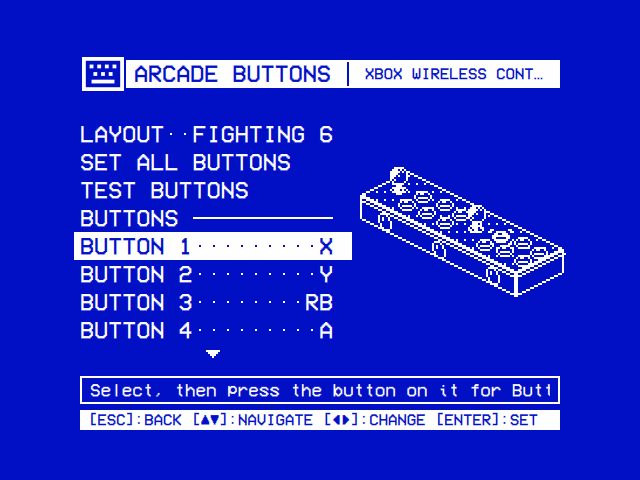
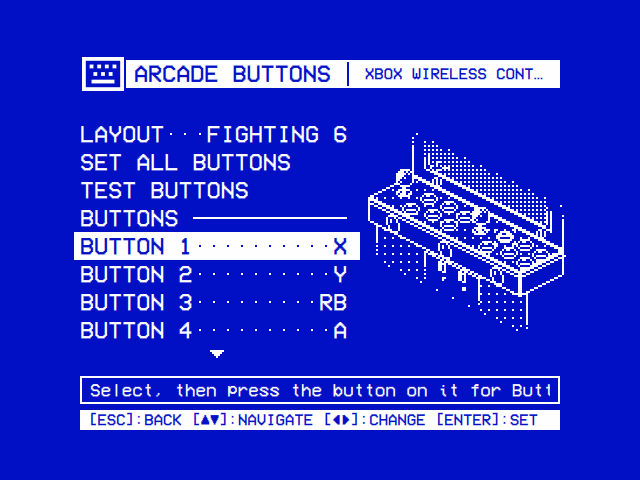
feat: Arcade Buttons shows the cabinet above and below its panel
The Arcade Buttons drawing showed the control panel alone. It now shows
a little of the cabinet round it as well, fading out above and below:
behind the panel rises the foot of the monitor, its bezel with two
speakers and the screen's lines, and under the panel the cabinet's front
goes down past the top of the coin door and its two coin entries. The
panel keeps its layout and what is lit on it; the drawing is 99 cells
square.

The two Arcade Buttons screenshots are retaken. Controls, ARCHITECTURE
and the drawing's comments describe the cabinet round the panel, and
describe it as a two-player cabinet rather than one particular model.

Changed region(s): [[0.4688, 0.2812, 0.875, 0.7188], [0.2812, 0.25, 0.5625, 0.3125], [0.3125, 0.7188, 0.3438, 0.75]]

diff --git a/views/Components/ArcadePanelArt.js b/views/Components/ArcadePanelArt.js
@@ -1,13 +1,16 @@
 .pragma library
 
 // The Arcade Buttons page's drawing (ArcadePanel.qml): a two-player arcade
-// cabinet's control panel, after a Stella International cabinet's, in
-// two-colour isometric pixel art. On its top each player has a ball-top
-// stick and six buttons in two rows of three that follow the fingers (the
-// first column nearer the player, the second the farthest), player 1 on the
-// left and player 2 on the right; on its front, below a chrome strip, three
-// round buttons: 1P START, COIN and 2P START. One player's side can be lit:
-// a button, COIN or that player's START.
+// cabinet's control panel, with a little of the cabinet above and below it,
+// in two-colour isometric pixel art. On the panel's top each player has a
+// ball-top stick and six buttons in two rows of three that follow the
+// fingers (the first column nearer the player, the second the farthest),
+// player 1 on the left and player 2 on the right; on its front, below a
+// chrome strip, three round buttons: 1P START, COIN and 2P START. Behind it
+// rises the foot of the monitor, its bezel with two speakers and the
+// screen's lines; under it the cabinet's front goes down past the top of the
+// coin door. The cabinet fades out above and below. One player's side can
+// be lit: a button, COIN or that player's START.
 //
 // draw() lays it out on a grid of cells, one art pixel each: 0 for none
 // (the ground the host draws on shows), 1 for ink, 2 for the ground drawn
@@ -16,15 +19,15 @@
 // (from above) has more of it.
 
 // The grid.
-var width = 103
-var height = 65
+var width = 99
+var height = 99
 
 // Isometric 2:1: along the panel (u, the players' left to right) a cell
 // down for every two right, into it (v, away from the players) a cell up for
-// every two right, z straight up, all in cells. Origin: the top's front left
-// corner.
+// every two right, z straight up, all in cells. Origin: the panel top's
+// front left corner.
 var originX = 0
-var originY = 14
+var originY = 32
 
 function project(u, v, z) {
     return { x: originX + 2 * u + 2 * v, y: originY + u - v - (z || 0) }
@@ -32,20 +35,25 @@ function project(u, v, z) {
 
 // The panel: its length and depth, the height of its front, and how far
 // down the front the chrome strip along its top is.
-var panelLength = 39
-var panelDepth = 12
+var panelLength = 38
+var panelDepth = 11
 var frontHeight = 12
 var strip = 2
+// The cabinet round it, as much as shows: how high above the panel's top,
+// how low under its front, and how far back the front under the panel is.
+var above = 22
+var below = 22
+var recess = 2
 
 // Where things stand on the top (u, v), from the left end of each player's
 // half of it. The buttons' columns follow the fingers: the first a little
 // nearer the player, the second the farthest, the third a little nearer
 // again.
 var playerLength = panelLength / 2
-var stick = { u: 3.6, v: 6.1 }
-var columns = [8.3, 12.8, 17.3]
+var stick = { u: 3.5, v: 5.6 }
+var columns = [8.1, 12.5, 16.9]
 var bend = [-0.9, 0, -0.4]
-var rows = [8.2, 3.9]        // the top row (1 2 3), the bottom (4 5 6)
+var rows = [7.6, 3.5]        // the top row (1 2 3), the bottom (4 5 6)
 // The front's buttons, along it, halfway down from the strip.
 var front = { start1: 0.16, coin: 0.5, start2: 0.84 }
 
@@ -91,6 +99,15 @@ var frontButton = {
           "..#####",
           "...###."]
 }
+// A speaker's grille in the bezel, which faces the players too.
+var speaker = {
+    anchor: { x: 2, y: 2 },
+    lines: [".##..",
+            "#o#o#",
+            "#o#o#",
+            "#o#o#",
+            "..##."]
+}
 
 // The ball: lit from the top left, its shine in a dither that thins away
 // from it.
@@ -134,14 +151,20 @@ function frontAt(name) {
     return project(front[name] * panelLength, 0, -(strip + frontHeight) / 2)
 }
 
+// The cells, and for each of the cabinet's the height it stands at (NaN for
+// the rest), which its fade goes by.
 function Grid(w, h) {
     this.w = w
     this.h = h
     this.cells = new Uint8Array(w * h)
+    this.height = new Float32Array(w * h).fill(NaN)
 }
+// A cell drawn over is no longer the cabinet's.
 Grid.prototype.set = function(x, y, value) {
-    if (x >= 0 && y >= 0 && x < this.w && y < this.h)
+    if (x >= 0 && y >= 0 && x < this.w && y < this.h) {
         this.cells[y * this.w + x] = value
+        this.height[y * this.w + x] = NaN
+    }
 }
 Grid.prototype.get = function(x, y) {
     return x >= 0 && y >= 0 && x < this.w && y < this.h ? this.cells[y * this.w + x] : 0
@@ -165,6 +188,17 @@ Grid.prototype.edge = function(shape) {
         var cx = x + 0.5, cy = y + 0.5
         return !inside(cx - 1, cy) || !inside(cx + 1, cy) || !inside(cx, cy - 1) || !inside(cx, cy + 1) ? 1 : this.get(x, y)
     }.bind(this))
+}
+// The cells of a shape as the cabinet's, at the heights heightAt(x, y)
+// gives, whatever is drawn in them.
+Grid.prototype.tag = function(shape, heightAt) {
+    var box = shape.box
+    for (var y = Math.max(0, Math.floor(box[1])); y <= Math.min(this.h - 1, Math.ceil(box[3])); y++) {
+        for (var x = Math.max(0, Math.floor(box[0])); x <= Math.min(this.w - 1, Math.ceil(box[2])); x++) {
+            if (shape.inside(x + 0.5, y + 0.5))
+                this.height[y * this.w + x] = heightAt(x + 0.5, y + 0.5)
+        }
+    }
 }
 Grid.prototype.line = function(a, b, value) {
     var x0 = Math.round(a.x), y0 = Math.round(a.y), x1 = Math.round(b.x), y1 = Math.round(b.y)
@@ -237,11 +271,24 @@ function ellipse(cx, cy, rx, ry) {
 function corners(z) {
     return [project(0, 0, z), project(panelLength, 0, z), project(panelLength, panelDepth, z), project(0, panelDepth, z)]
 }
+// An upright rectangle across the cabinet, v in from its front, u0 to u1
+// along it and z0 to z1 up it, as a shape; its cells' heights (heightAt).
+function upright(v, u0, u1, z0, z1) {
+    var shape = polygon([project(u0, v, z0), project(u1, v, z0), project(u1, v, z1), project(u0, v, z1)])
+    shape.heightAt = function(x, y) {
+        var u = (x - originX) / 2 - v
+        return originY + u - v - y
+    }
+    return shape
+}
 
 // Two-colour shading: ink on a share of the cells, in an even pattern.
 function ground() { return 2 }
+function ink() { return 1 }
 function half(x, y) { return (x + y) % 2 === 0 ? 1 : 2 }
 function sixteenth(x, y) { return x % 4 === 0 && y % 4 === 0 ? 1 : 2 }
+// A lit screen's lines: every other row, every other cell of it.
+function scanlines(x, y) { return y % 2 === 0 && x % 2 === 0 ? 1 : 2 }
 
 // A stick (a Sanwa JLF with its ball top): the dust washer round the
 // shaft, the shaft, the ball.
@@ -259,6 +306,66 @@ function drawStick(grid, at) {
     grid.sprite(ball, { x: Math.floor(ballDiameter / 2), y: ballDiameter - 1 }, c.x, c.y - shaftHeight + 2)
 }
 
+// What shows of the cabinet behind and under the panel, each face filled
+// and outlined: the monitor's bezel, upright behind the panel, with two
+// speakers and the foot of the screen, its lines and a glint on its glass;
+// and the front under the panel, set back from it, with the top of the coin
+// door, its two coin entries (a bright plate each with the slot in it, the
+// coin return under it).
+function drawCabinet(grid) {
+    var L = panelLength, D = panelDepth, H = frontHeight, R = recess
+    var draw = function(shape, fill) {
+        grid.paint(shape, fill)
+        grid.edge(shape)
+    }
+
+    var bezel = upright(D, 0, L, 0, above)
+    draw(bezel, ground)
+    draw(upright(D, 3, L - 3, 6, above), ground)
+    var glass = polygon([project(5, D, 7), project(L - 5, D, 7), project(L - 4, D, 9.5), project(L - 4, D, above),
+                         project(4, D, above), project(4, D, 9.5)])
+    draw(glass, scanlines)
+    grid.line(project(6, D, 9), project(9, D, 13), 1)
+    grid.line(project(6, D, 12), project(7, D, 14), 1)
+    var speakers = [6, L - 6]
+    for (var i = 0; i < speakers.length; i++) {
+        var c = project(speakers[i], D, 3.5)
+        grid.sprite(speaker.lines, speaker.anchor, c.x, c.y)
+    }
+    grid.tag(bezel, bezel.heightAt)
+
+    var low = upright(R, 0, L, -H - below, -H)
+    draw(low, sixteenth)
+    draw(upright(R, L / 2 - 7, L / 2 + 7, -H - below, -H - 4.5), ground)
+    var entries = [L / 2 - 3.5, L / 2 + 1.5]
+    for (var j = 0; j < entries.length; j++) {
+        var e = entries[j]
+        draw(upright(R, e, e + 2, -H - 11, -H - 6), ink)
+        grid.line(project(e + 1, R, -H - 7), project(e + 1, R, -H - 9.5), 2)
+        var r = project(e + 1, R, -H - 13)
+        var rx = Math.round(r.x), ry = Math.round(r.y)
+        grid.set(rx, ry, 1); grid.set(rx + 1, ry, 1); grid.set(rx, ry + 1, 1); grid.set(rx + 1, ry + 1, 1)
+    }
+    grid.tag(low, low.heightAt)
+}
+
+// The cabinet fades out up the bezel and down the front: the higher (or
+// lower) one of its cells, the likelier it is gone, in an even pattern.
+function fade(grid) {
+    var bayer = [[0, 8, 2, 10], [12, 4, 14, 6], [3, 11, 1, 9], [15, 7, 13, 5]]
+    var from = 12, top = above, to = -frontHeight - 12, bottom = -frontHeight - below
+    for (var y = 0; y < grid.h; y++) {
+        for (var x = 0; x < grid.w; x++) {
+            var z = grid.height[y * grid.w + x]
+            if (isNaN(z))
+                continue
+            var keep = z > from ? (top - z) / (top - from) : z < to ? (z - bottom) / (to - bottom) : 1
+            if (bayer[y % 4][x % 4] >= keep * 16)
+                grid.cells[y * grid.w + x] = 0
+        }
+    }
+}
+
 // lit: the inputs to light, by their names ("1" to "6", "coin", "start"),
 // on player's side: 2 the right, else the left.
 function draw(lit, player) {
@@ -267,8 +374,9 @@ function draw(lit, player) {
         on[lit[i]] = true
     var side = player === 2 ? 2 : 1
     var grid = new Grid(width, height)
+    drawCabinet(grid)
 
-    // The front and the right end, in shade, the strip along the front's
+    // The panel's front and right end, in shade, the strip along the front's
     // top and round the end; the top over them.
     var top = corners(0), foot = corners(-frontHeight), band = corners(-strip)
     for (var s = 0; s < 2; s++) {
@@ -313,6 +421,7 @@ function draw(lit, player) {
     things.sort(function(a, b) { return (a.at.u - a.at.v) - (b.at.u - b.at.v) })
     for (var t = 0; t < things.length; t++)
         things[t].draw()
+    fade(grid)
 
     // The focus frame round each lit one.
     var gap = 1

diff --git a/views/Components/ArcadePanel.qml b/views/Components/ArcadePanel.qml
@@ -1,12 +1,12 @@
 import QtQuick
 import "ArcadePanelArt.js" as Art
 
-// A two-player cabinet's control panel after a Stella International
-// cabinet's, drawn in the theme's two colours: each player's ball-top stick
-// and six buttons in two rows of three, and 1P START, COIN and 2P START on
-// its front (ArcadePanelArt.js draws it). lit: the inputs shown lit, "1" to
-// "6", "coin" and "start" (Arcade Buttons' names), on player's side: 2 the
-// right, else the left. Button 7 and 8 aren't on it.
+// A two-player arcade cabinet's control panel, with a little of the cabinet
+// above and below it, drawn in the theme's two colours: each player's
+// ball-top stick and six buttons in two rows of three, and 1P START, COIN
+// and 2P START on its front (ArcadePanelArt.js draws it). lit: the inputs
+// shown lit, "1" to "6", "coin" and "start" (Arcade Buttons' names), on
+// player's side: 2 the right, else the left. Button 7 and 8 aren't on it.
 //
 // Each of the drawing's cells is cell screen pixels square, so it keeps its
 // pixels whole: root.px, a 240-line picture's pixel, by default.

diff --git a/docs/wiki/Controls.md b/docs/wiki/Controls.md
@@ -315,13 +315,13 @@ The d-pad is `D-PAD ▲ ▼ ◄ ►` on all of them, the sticks `L STICK` and `R
 
 <table>
 <tr><th width="50%">A pad's Arcade Buttons</th><th width="50%">Set All Buttons</th></tr>
-<tr><td><img src="https://raw.githubusercontent.com/mehmetraif/OSD-OS/main/docs/screenshots/arcade-buttons.png" width="100%" alt="ARCADE BUTTONS, XBOX WIRELESS CONTROLLER: LAYOUT FIGHTING 6, SET ALL BUTTONS, TEST BUTTONS, then BUTTONS: BUTTON 1 X (selected), BUTTON 2 Y, BUTTON 3 RB, BUTTON 4 A. Beside them a two-player cabinet's control panel in two colours, after a Stella International cabinet's: each player's ball-top stick and six buttons in two rows of three, and three round buttons on its front. The pad plays as player 2, so its Button 1, the right-hand player's top row's first, is lit and framed" /></td><td><img src="https://raw.githubusercontent.com/mehmetraif/OSD-OS/main/docs/screenshots/arcade-buttons-set-all.png" width="100%" alt="SET ALL BUTTONS (3/10): PRESS THE BUTTON ON XBOX WIRELESS CONTROLLER FOR [BUTTON 3], OR WAIT IF IT HAS NONE; the control panel, small, with player 2's Button 3 lit; the presses so far: BUTTON 2: Y, BUTTON 1: X. NONE IN 4" /></td></tr>
+<tr><td><img src="https://raw.githubusercontent.com/mehmetraif/OSD-OS/main/docs/screenshots/arcade-buttons.png" width="100%" alt="ARCADE BUTTONS, XBOX WIRELESS CONTROLLER: LAYOUT FIGHTING 6, SET ALL BUTTONS, TEST BUTTONS, then BUTTONS: BUTTON 1 X (selected), BUTTON 2 Y, BUTTON 3 RB, BUTTON 4 A. Beside them a two-player arcade cabinet's control panel in two colours, with the foot of the monitor behind it and the top of the coin door under it: each player's ball-top stick and six buttons in two rows of three, and three round buttons on its front. The pad plays as player 2, so its Button 1, the right-hand player's top row's first, is lit and framed" /></td><td><img src="https://raw.githubusercontent.com/mehmetraif/OSD-OS/main/docs/screenshots/arcade-buttons-set-all.png" width="100%" alt="SET ALL BUTTONS (3/10): PRESS THE BUTTON ON XBOX WIRELESS CONTROLLER FOR [BUTTON 3], OR WAIT IF IT HAS NONE; the control panel, small, with player 2's Button 3 lit; the presses so far: BUTTON 2: Y, BUTTON 1: X. NONE IN 4" /></td></tr>
 <tr><td>Fighting 6 on an Xbox pad: a fighter's punches on X, Y and RB, its kicks on A, B and RT. The control panel lights the line's button.</td><td>Set All takes the buttons from presses in turn, the control panel lighting the one it asks for, and keeps none of them until the last.</td></tr>
 </table>
 
 A pad's own page has **Arcade Buttons**: which of its buttons is each of an arcade cabinet's, **Button 1** to **Button 8**, **Coin** and **Start**. The [Arcade](https://github.com/mehmetraif/OSD-OS/wiki/Arcade#players-and-buttons) module gives each player's to MAME and FinalBurn Neo alike as a game starts, so that a game's button 1 is the same button in both, and on any pad. The joystick is always the D-pad and the left stick.
 
-Beside the lines is a two-player cabinet's control panel, drawn in the theme's two colours after a Stella International cabinet's: on its top each player has a ball-top stick and six buttons in two rows of three that follow the fingers, player 1 on the left and player 2 on the right, and on its front, under a chrome strip, are three round buttons: **1P Start**, **Coin** and **2P Start**. The line's input is lit and framed on the side of the player the pad plays as (player 2's on the right, any other's on the left; [Players](https://github.com/mehmetraif/OSD-OS/wiki/Controls#players)), Coin in the middle for both; Button 7 and 8 aren't on a six-button panel. Set All lights the one it asks for, and Test Buttons the one the last press is, on a smaller panel (none on a 240-line picture, which has no room for it).
+Beside the lines is a two-player arcade cabinet's control panel, drawn in the theme's two colours with a little of the cabinet round it: on its top each player has a ball-top stick and six buttons in two rows of three that follow the fingers, player 1 on the left and player 2 on the right, and on its front, under a chrome strip, are three round buttons: **1P Start**, **Coin** and **2P Start**. Behind it rises the foot of the monitor, with two speakers and the screen's lines, and under it the cabinet's front goes down past the coin door's two coin entries, the cabinet fading out above and below. The line's input is lit and framed on the side of the player the pad plays as (player 2's on the right, any other's on the left; [Players](https://github.com/mehmetraif/OSD-OS/wiki/Controls#players)), Coin in the middle for both; Button 7 and 8 aren't on a six-button panel. Set All lights the one it asks for, and Test Buttons the one the last press is, on a smaller panel (none on a 240-line picture, which has no room for it).
 
 | Row | What it does |
 |---|---|

diff --git a/ARCHITECTURE.md b/ARCHITECTURE.md
@@ -1019,7 +1019,7 @@ Pixel-drawn pieces of a deck's on-screen menu, built on `root.px` (one pixel of 
 | `SelectionBox` | The selected line's box: the skin's `selection` picture, or a solid bar. It tells `Main.qml` where it is, for the selector effect (`SelectorFx`); `skinned: false` keeps it a plain bar (the on-screen keyboard's keys). Every selection uses it. |
 | `BackgroundFx` | The background effect in an area (`area`, in screen coordinates), drawn on art pixels on the screen's grid; `OsdGround` places it (see [Effects](#effects)). |
 | `PixelIcon` | A symbol from a small bitmap: `play`, `left`, `up`, `down`, `ff`, `rew`, `pause`, `stop`, `rec`, `eject`, plus the `ok` key and `tape` badges, the `heart` the Arcade screen marks a favourite with and the `search` glass on its Search row, a Wi-Fi network's `lock` and signal (`signal1` to `signal4`, and `signal0`, the bars' feet alone), and the status icons' `bluetooth`, `bluetoothLinked`, `hiscore` (HI), `trophy`, `globe` and `network`. |
-| `ArcadePanel` | A two-player cabinet's control panel after a Stella International cabinet's, the Arcade Buttons page's: each player's ball-top stick and six buttons in two rows of three, and 1P START, COIN and 2P START on its front, in two-colour isometric pixel art drawn a cell at a time (`ArcadePanelArt.js`), `cell` screen pixels to a cell (`root.px` unless set); `lit` lists the inputs drawn lit and framed (`1` to `6`, `coin`, `start`) on `player`'s side (2 the right, else the left). |
+| `ArcadePanel` | A two-player arcade cabinet's control panel, the Arcade Buttons page's: each player's ball-top stick and six buttons in two rows of three, and 1P START, COIN and 2P START on its front, with a little of the cabinet above and below it (the foot of the monitor, the top of the coin door) fading out, in two-colour isometric pixel art drawn a cell at a time (`ArcadePanelArt.js`), `cell` screen pixels to a cell (`root.px` unless set); `lit` lists the inputs drawn lit and framed (`1` to `6`, `coin`, `start`) on `player`'s side (2 the right, else the left). |
 | `OsdTicks` | The segment bar, `||||----`: a tick per filled step and a dash per empty one. The boot screen's progress bar. |
 | `OsdTapeBar` | The tape position bar: a ▼ over the position, a ruled bar filled up to it, and the names of its ends under them: BEGIN and END, or a setting's own (`startText`, `endText`), as Settings' TRANSPARENT … SOLID slider. |
 
